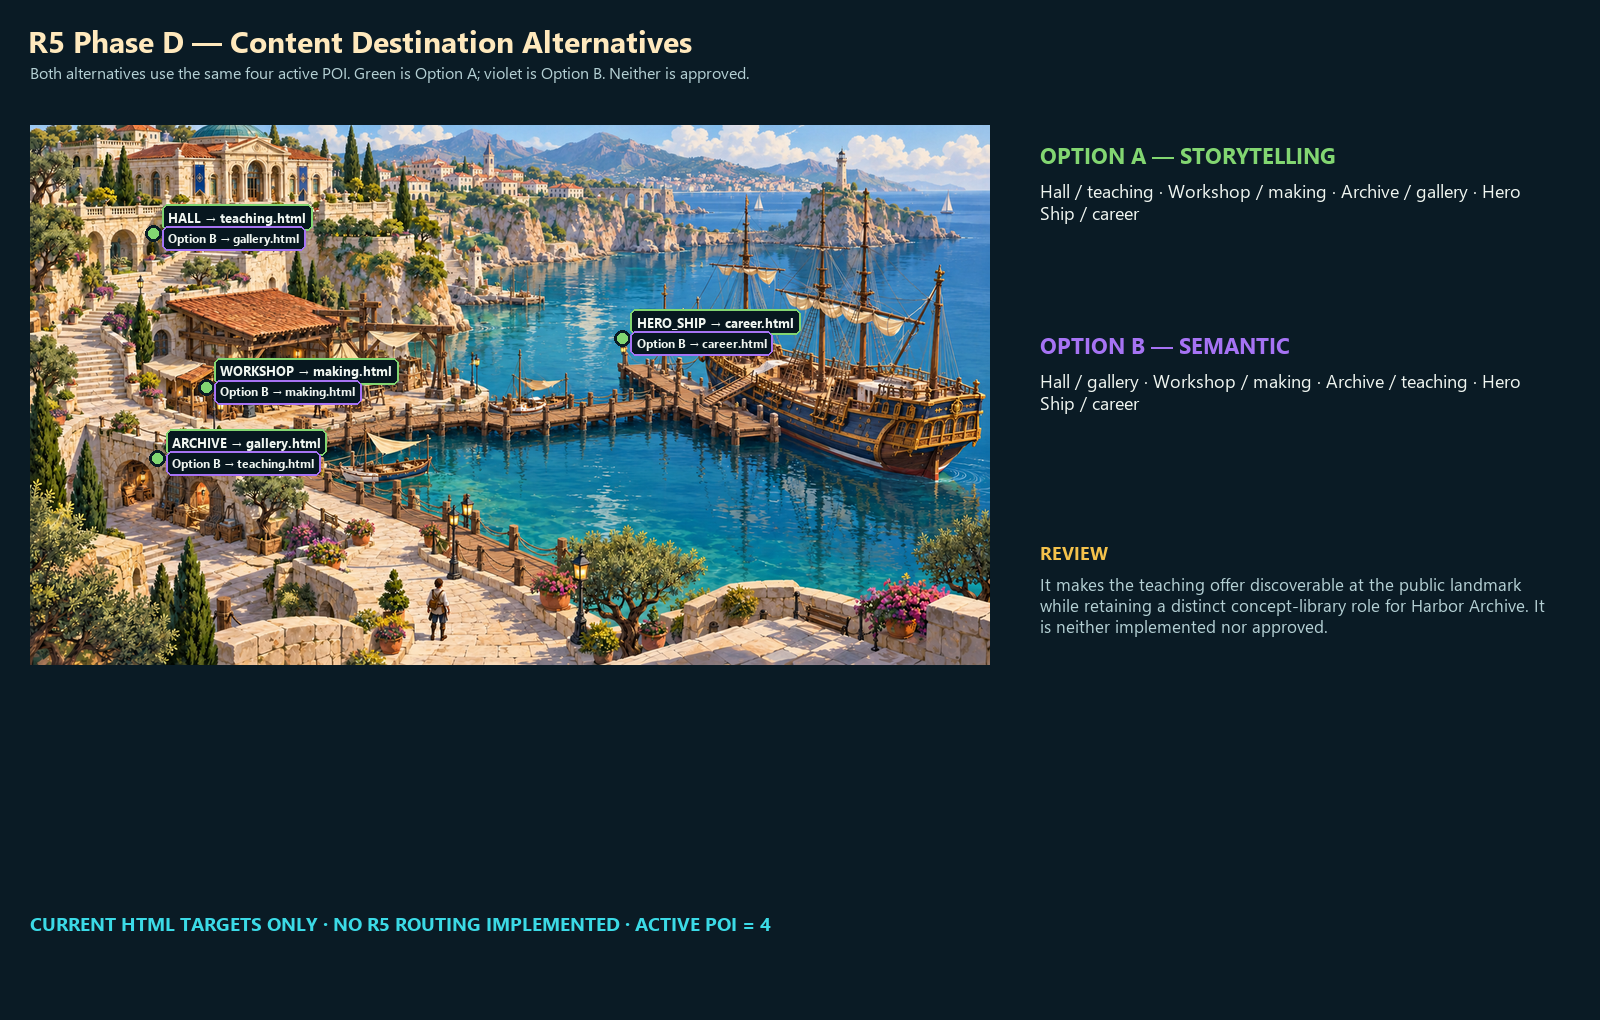
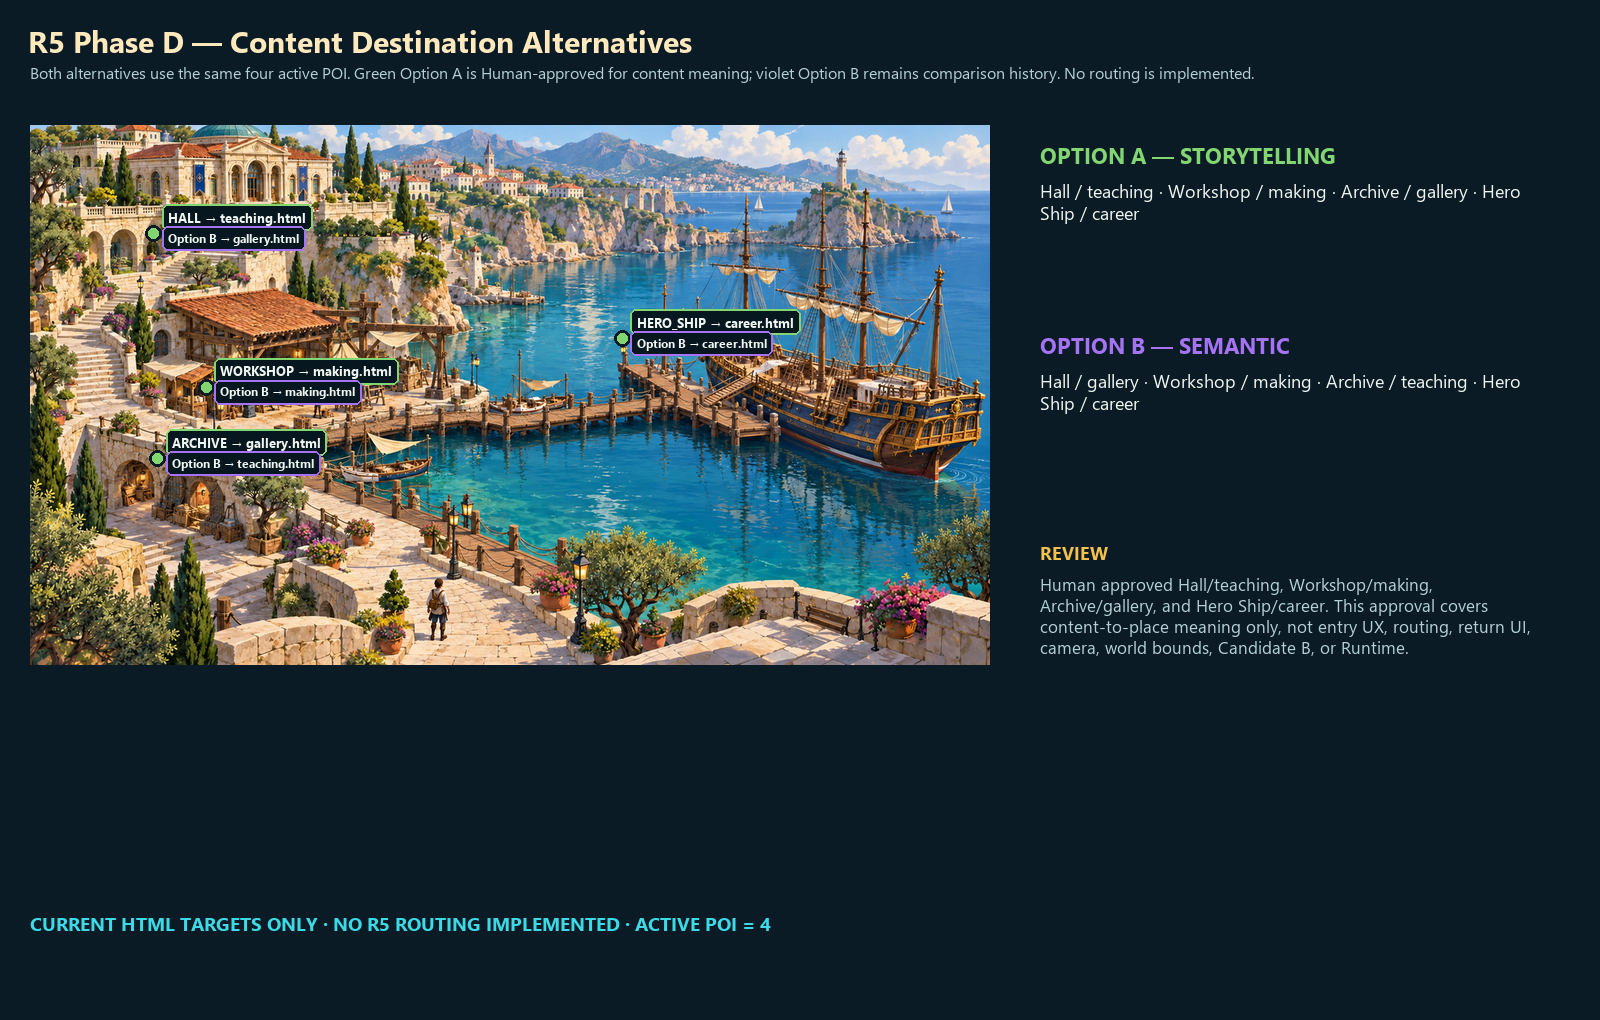
docs(portfolio-world): calibrate R5 camera viewport review

Changed region(s): [[0.6562, 0.5471, 0.9688, 0.6382], [0.25, 0.0608, 0.7812, 0.0912]]

diff --git a/tools/build_r5_phase_d1_camera_evidence.py b/tools/build_r5_phase_d1_camera_evidence.py
@@ -1,0 +1,65 @@
+"""Render R5 D.1 calibration boards using merged C.2 anchors and one camera transform."""
+from pathlib import Path
+import json
+from PIL import Image, ImageDraw, ImageFont
+
+ROOT=Path(__file__).resolve().parents[1]
+D=json.loads((ROOT/'data/portfolio-world/r5-camera-viewport-calibration-draft.json').read_text(encoding='utf8'))
+OUT=ROOT/D['evidence']['folder']; FONT='C:/Windows/Fonts/segoeui.ttf'; BOLD='C:/Windows/Fonts/segoeuib.ttf'
+BG=(10,27,37);INK=(239,245,240);MUTED=(180,208,212);GOLD=(244,194,75);CYAN=(59,218,230);GREEN=(130,214,113);VIOLET=(166,115,244);PINK=(245,105,165);ORANGE=(244,147,57)
+def f(n,b=False):return ImageFont.truetype(BOLD if b else FONT,n)
+def src():return Image.open(ROOT/D['referenceMaster']['path']).convert('RGB')
+def player():return Image.open(ROOT/'portfolio-world/public/assets/canonical-r4/runtime/player/idle-front.png').convert('RGBA')
+def board(title,sub,size):
+ im=Image.new('RGB',size,BG);d=ImageDraw.Draw(im);d.text((28,20),title,font=f(30,True),fill=(255,233,189));d.text((30,61),sub,font=f(16),fill=MUTED);return im,d
+def textwrap(d,x,y,text,width,size=16,color=MUTED):
+ words=text.split();line=''
+ for word in words:
+  trial=(line+' '+word).strip()
+  if d.textlength(trial,font=f(size))>width and line:d.text((x,y),line,font=f(size),fill=color);y+=size+5;line=word
+  else:line=trial
+ if line:d.text((x,y),line,font=f(size),fill=color)
+def anchors():return {a['id']:a for a in D['groundAnchors']}
+def clamp(n,low,high):return max(low,min(high,n))
+def camera_crop(image, feet, viewport, zoom, target_size):
+ """One transform: crop visible world then resize; player is scaled only by crop scale."""
+ vw,vh=viewport[0]/zoom,viewport[1]/zoom; left=clamp(feet[0]-vw/2,0,1280-vw);top=clamp(feet[1]-vh/2,0,720-vh)
+ # image crop accepts integral source pixels; computation is retained for the formula and diagram values.
+ left_i=round(left);top_i=round(top);vw_i=round(vw);vh_i=round(vh);tile=image.crop((left_i,top_i,left_i+vw_i,top_i+vh_i)).resize(target_size,Image.Resampling.LANCZOS).convert('RGBA')
+ sx=target_size[0]/vw_i;sy=target_size[1]/vh_i;return tile,(left_i,top_i),(sx,sy)
+def place(tile, feet, crop_pos, scale, world_size):
+ """Bottom-center foot anchor: no additional zoom beyond the crop scale."""
+ sx,sy=scale;w=max(1,round(world_size[0]*sx));h=max(1,round(world_size[1]*sy));spr=player().resize((w,h),Image.Resampling.NEAREST);x=round((feet[0]-crop_pos[0])*sx);y=round((feet[1]-crop_pos[1])*sy);ImageDraw.Draw(tile).ellipse((x-4,y-4,x+4,y+4),fill=GOLD);tile.alpha_composite(spr,(x-w//2,y-h));return (x,y,w,h)
+def corrected_comparison():
+ image=src();a=anchors()['N_WORKSHOP'];im,d=board('R5 D.1 — Corrected Camera Transform','Same Workshop ground anchor, same crop transform. The old player-only duplicate zoom is removed.',(1800,910));opts=D['playerScaleOptions']
+ for i,opt in enumerate(opts):
+  x=35+i*585;y=130;tile,cpos,scale=camera_crop(image,a['point'],[1024,576],opt['zoom'],(540,304));x0,y0,w,h=place(tile,a['point'],cpos,scale,opt['worldSize']);im.paste(tile.convert('RGB'),(x,y));d.rectangle((x,y,x+540,y+304),outline=GOLD,width=2);d.text((x,y+320),opt['id'].replace('_',' '),font=f(18,True),fill=INK);d.text((x,y+350),f"logical player {opt['logicalScreenSize'][0]}×{opt['logicalScreenSize'][1]} px",font=f(16),fill=CYAN);d.text((x,y+378),f"preview sprite {w}×{h}px · feet ({x0},{y0})",font=f(15),fill=MUTED)
+ d.text((35,800),'Correct rule: player preview size = player-world size × (thumbnail size / visible world area). Zoom appears once through visible world area.',font=f(18,True),fill=CYAN);return im
+def native_scale():
+ im,d=board('R5 D.1 — Player Native Logical Scale','Logical screen sizes are independent of CSS display size. Rectangles are true-size representations on a 1024×576 logical canvas.',(1600,920));x0,y0=55,135;scale=.9;d.rectangle((x0,y0,x0+1024*scale,y0+576*scale),outline=CYAN,width=3);d.text((x0,y0-32),'1024×576 LOGICAL VIEWPORT',font=f(18,True),fill=INK)
+ colors=[GREEN,GOLD,VIOLET]
+ for i,opt in enumerate(D['playerScaleOptions']):
+  x=x0+140+i*285;y=y0+280;w,h=opt['logicalScreenSize'];d.rectangle((x,y-h*scale,x+w*scale,y),fill=colors[i],outline=INK,width=2);d.line((x-25,y,x+max(55,w*scale)+25,y),fill=colors[i],width=2);d.text((x-40,y+18),opt['id'].replace('_',' '),font=f(16,True),fill=INK);d.text((x-40,y+44),f"{w}×{h} logical px",font=f(15),fill=MUTED)
+ d.text((1020,180),'INTERPRETATION',font=f(20,True),fill=(255,233,189));textwrap(d,1020,220,'28×56 at zoom 1.25 becomes 35×70 logical pixels. It is not a new character asset and it is not multiplied again by preview scale.',520,18);d.text((1020,410),'GROUND CONTACT',font=f(20,True),fill=(255,233,189));textwrap(d,1020,450,'Every sprite uses bottom-center feet at a merged C.2 ground anchor. The colored baseline is the contact point, not water or a hull.',520,18);return im
+def five_locations():
+ image=src(); places=[('Hall / Main Stairs','N_HALL_STAIR_BASE'),('Workshop','N_WORKSHOP'),('Harbor Archive','N_ARCHIVE'),('Central Promenade','N_PROMENADE'),('Hero Boarding Threshold','N_HERO')];im,d=board('R5 D.1 — Five-Location Gameplay Review','All rows use the exact same C.2 merged point for each location; only player scale / camera zoom changes.',(2450,1250))
+ for r,opt in enumerate(D['playerScaleOptions']):
+  y=115+r*360;d.text((24,y),opt['id'].replace('_',' '),font=f(19,True),fill=(255,233,189));d.text((24,y+28),f"player {opt['worldSize'][0]}×{opt['worldSize'][1]}, zoom {opt['zoom']}; logical {opt['logicalScreenSize'][0]}×{opt['logicalScreenSize'][1]}",font=f(14),fill=MUTED)
+  for c,(name,nid) in enumerate(places):
+   anchor=anchors()[nid];tile,cpos,scale=camera_crop(image,anchor['point'],[1024,576],opt['zoom'],(390,219));place(tile,anchor['point'],cpos,scale,opt['worldSize']);x=315+c*420;im.paste(tile.convert('RGB'),(x,y));d.rectangle((x,y,x+390,y+219),outline=GOLD,width=2);d.text((x,y+228),name,font=f(14,True),fill=INK);d.text((x,y+249),f"{nid}: {anchor['point'][0]},{anchor['point'][1]} · {anchor['surface']}",font=f(12),fill=MUTED)
+ d.text((28,1210),'Ground checks: every anchor is on its named merged C.2 surface and outside solid building/cliff/hull collision; sea overlap is allowed only on named Pier/Dock/Gangway surfaces. Hero remains a threshold only.',font=f(17,True),fill=CYAN);return im
+def boundaries():
+ image=src();im,d=board('R5 D.1 — Camera Boundary and Travel Review','Camera rectangles are clamped to 1280×720 review bounds. They illustrate view coverage, not a final world-size decision.',(2050,1050));configs=D['viewportConfigurations']
+ for i,cfg in enumerate(configs):
+  x=35+(i%2)*1000;y=135+(i//2)*430;tile=image.resize((820,461),Image.Resampling.LANCZOS);im.paste(tile,(x,y));scale=820/1280;vw,vh=cfg['visibleWorld'];rect=(x+(820-vw*scale)/2,y+(461-vh*scale)/2,x+(820+vw*scale)/2,y+(461+vh*scale)/2);d.rectangle(rect,outline=GOLD,width=4);d.rectangle((x,y,x+820,y+461),outline=CYAN,width=3);d.text((x,y+475),cfg['id'].replace('_',' '),font=f(18,True),fill=INK);d.text((x,y+504),f"visible {vw:.1f}×{vh:.1f} · travel {cfg['cameraTravel'][0]:.1f}×{cfg['cameraTravel'][1]:.1f}",font=f(15),fill=MUTED)
+ d.text((35,1010),'CYAN: 1280×720 candidate review bounds · GOLD: visible world area when camera targets a central location · clamp prevents blank edge exposure.',font=f(16,True),fill=CYAN);return im
+def decision_board():
+ image=src();im,d=board('R5 D.1 — Approved Mapping / Pending Camera Decision','One Human decision is recorded; camera and world selections remain review choices.',(1600,910));im.paste(image.resize((700,394),Image.Resampling.LANCZOS),(30,130));d.rectangle((30,130,730,524),outline=GOLD,width=3)
+ cards=[('CONTENT MAPPING','A_STORYTELLING · HUMAN APPROVED',GREEN),('IMPLEMENTATION','NOT IMPLEMENTED',PINK),('RIGHT RESERVE','APPROVED · VISUAL ONLY',GREEN),('CAMERA / VIEWPORT','PENDING HUMAN',GOLD),('WORLD BOUNDS','PENDING HUMAN',GOLD),('R5 RUNTIME','BLOCKED',PINK)]
+ for i,(a,b,c) in enumerate(cards):
+  x=790;y=130+i*88;d.rounded_rectangle((x,y,x+760,y+66),12,fill=(17,47,59),outline=c,width=3);d.text((x+16,y+9),a,font=f(14,True),fill=MUTED);d.text((x+16,y+33),b,font=f(18,True),fill=INK)
+ d.text((30,770),'Recommendation for Human review: compare 1024×576 at 1.25 with the separate overview pattern before changing player art or final world bounds.',font=f(17,True),fill=(255,233,189));d.text((30,840),D['humanGate']['gate'],font=f(22,True),fill=CYAN);return im
+def main():
+ OUT.mkdir(parents=True,exist_ok=True)
+ for name,fn in [('04-corrected-camera-comparison.png',corrected_comparison),('05-player-native-scale-review.png',native_scale),('06-five-location-gameplay-review.png',five_locations),('07-camera-boundary-and-travel.png',boundaries),('11-human-decision-board.png',decision_board)]:fn().save(OUT/name)
+if __name__=='__main__':main()

diff --git a/tools/build_r5_phase_d_architecture_evidence.py b/tools/build_r5_phase_d_architecture_evidence.py
@@ -28,7 +28,7 @@ def wrap(d, xy, text, width, color=MUTED, size=16, gap=4):
 def getnodes():
     by={x['id']:x for x in C1['navigationNodes']};by.update({x['id']:x for x in C2['geometryOverrides']['navigationNodes']});return by
 def content_map():
-    src=master(); im,d=board('R5 Phase D — Content Destination Alternatives','Both alternatives use the same four active POI. Green is Option A; violet is Option B. Neither is approved.',(1600,1020)); im.paste(src.resize((960,540),Image.Resampling.LANCZOS),(30,125));
+    src=master(); im,d=board('R5 Phase D — Content Destination Alternatives','Both alternatives use the same four active POI. Green Option A is Human-approved for content meaning; violet Option B remains comparison history. No routing is implemented.',(1600,1020)); im.paste(src.resize((960,540),Image.Resampling.LANCZOS),(30,125));
     points={'hall':(165,145),'workshop':(235,350),'archive':(170,445),'hero_ship':(790,285)}
     a=DATA['mappingOptions'][0]['mapping']; b=DATA['mappingOptions'][1]['mapping']
     for poi,(x,y) in points.items():
@@ -52,7 +52,7 @@ def gameplay():
     for r,cam in enumerate(DATA['cameraOptions']):
         y=120+r*330;d.text((25,y),cam['id'].replace('_',' '),font=ft(20,True),fill=(255,233,189));d.text((25,y+30),f"player {cam['playerVisual'][0]}×{cam['playerVisual'][1]} · zoom {cam['zoom']} · visible {cam['visibleWorld'][0]:.1f}×{cam['visibleWorld'][1]:.1f} · on-screen {cam['screenPlayerHeight']}px",font=ft(14),fill=MUTED)
         for c,(name,nid) in enumerate(views):
-            p=nodes[nid]['point']; vw,vh=map(round,cam['visibleWorld']);left=max(0,min(src.width-vw,round(p[0]-vw/2)));top=max(0,min(src.height-vh,round(p[1]-vh/2)));tile=src.crop((left,top,left+vw,top+vh)).resize((400,225),Image.Resampling.LANCZOS).convert('RGBA');sx=400/vw;sy=225/vh;sw=max(1,round(cam['playerVisual'][0]*cam['zoom']*sx));sh=max(1,round(cam['playerVisual'][1]*cam['zoom']*sy));sprite=player.resize((sw,sh),Image.Resampling.NEAREST);px=round((p[0]-left)*sx);py=round((p[1]-top)*sy);ImageDraw.Draw(tile).ellipse((px-4,py-4,px+4,py+4),fill=GOLD);tile.alpha_composite(sprite,(px-sw//2,py-sh));x=390+c*425;im.paste(tile.convert('RGB'),(x,y));d.rectangle((x,y,x+400,y+225),outline=GOLD,width=2);d.text((x,y+234),name,font=ft(15,True),fill=INK)
+            p=nodes[nid]['point']; vw,vh=map(round,cam['visibleWorld']);left=max(0,min(src.width-vw,round(p[0]-vw/2)));top=max(0,min(src.height-vh,round(p[1]-vh/2)));tile=src.crop((left,top,left+vw,top+vh)).resize((400,225),Image.Resampling.LANCZOS).convert('RGBA');sx=400/vw;sy=225/vh;sw=max(1,round(cam['playerVisual'][0]*sx));sh=max(1,round(cam['playerVisual'][1]*sy));sprite=player.resize((sw,sh),Image.Resampling.NEAREST);px=round((p[0]-left)*sx);py=round((p[1]-top)*sy);ImageDraw.Draw(tile).ellipse((px-4,py-4,px+4,py+4),fill=GOLD);tile.alpha_composite(sprite,(px-sw//2,py-sh));x=390+c*425;im.paste(tile.convert('RGB'),(x,y));d.rectangle((x,y,x+400,y+225),outline=GOLD,width=2);d.text((x,y+234),name,font=ft(15,True),fill=INK)
     d.text((30,1120),'Read: 28×56 at 1.25 is proposed for first gameplay test. Overview must remain a separate affordance; it is not the normal play view.',font=ft(17,True),fill=CYAN);return im
 def expansion():
     src=master(); im,d=board('R5 Phase D — Future Expansion Models','Current right-side reserve stays water/horizon and non-walkable. These diagrams compare future production choices.',(1700,980)); im.paste(src.resize((760,428),Image.Resampling.LANCZOS),(35,135));d.rectangle((35+570,135,795,563),outline=VIOLET,width=4);d.text((58,582),'ACTIVE HARBOR CORE',font=ft(16,True),fill=GREEN);d.text((610,582),'VISUAL RESERVE ONLY',font=ft(16,True),fill=VIOLET)
@@ -63,13 +63,13 @@ def expansion():
     for i,seam in enumerate(DATA['expansionSeams']):d.text((60,792+i*44),f"{seam['id']}: {seam['current']}",font=ft(16),fill=INK)
     return im
 def decisions():
-    im,d=board('R5 Phase D — Human Decision Board','A planning package only. No candidate, mapping, UX, world size, camera value, or runtime has been approved.',(1600,940)); src=master().resize((650,366),Image.Resampling.LANCZOS);im.paste(src,(30,130));d.rectangle((30,130,680,496),outline=GOLD,width=3)
-    decisions=[('A · CONTENT MAPPING','Option A storytelling / Option B semantic'),('B · CONTENT ENTRY UX','HTML page / overlay panel / content scene'),('C · WORLD AND CAMERA','single-screen / larger exploration / connected areas'),('D · EXPANSION MODEL','World Extension / Scene Transition')]
+    im,d=board('R5 Phase D — Human Decision Board','A Storytelling content mapping is approved; entry UX, world/camera, Candidate B, and Runtime remain pending or blocked.',(1600,940)); src=master().resize((650,366),Image.Resampling.LANCZOS);im.paste(src,(30,130));d.rectangle((30,130,680,496),outline=GOLD,width=3)
+    decisions=[('A · CONTENT MAPPING','A Storytelling · HUMAN APPROVED'),('B · CONTENT ENTRY UX','HTML page / overlay panel / content scene'),('C · WORLD AND CAMERA','single-screen / larger exploration / connected areas'),('D · EXPANSION MODEL','World Extension / Scene Transition')]
     for i,(a,b) in enumerate(decisions):
         x=750;y=130+i*125;d.rounded_rectangle((x,y,x+790,y+94),14,fill=(17,47,59),outline=CYAN,width=3);d.text((x+20,y+13),a,font=ft(19,True),fill=(255,233,189));d.text((x+20,y+47),b,font=ft(17),fill=INK)
     checks=['FOUR ACTIVE POI — PRESERVED','C.2 GEOMETRY — PRESERVED','RIGHT RESERVE — VISUAL ONLY','CANDIDATE B — PENDING HUMAN','R4/R5 RUNTIME — NOT MODIFIED / BLOCKED']
     for i,text in enumerate(checks):d.text((40,570+i*42),text,font=ft(18,True),fill=GREEN if i<3 else GOLD)
-    d.text((40,830),DATA['gate'],font=ft(22,True),fill=CYAN);return im
+    d.text((40,830),'READY_FOR_R5_D1_CAMERA_WORLD_HUMAN_REVIEW',font=ft(22,True),fill=CYAN);return im
 def main():
     OUT.mkdir(parents=True,exist_ok=True)
     for name,func in [('10-content-destination-map.png',content_map),('11-world-size-camera-comparison.png',world_size),('12-gameplay-view-comparison.png',gameplay),('13-future-expansion-models.png',expansion),('14-human-decision-board.png',decisions)]: func().save(OUT/name)

diff --git a/reports/portfolio-world-rebuild/r5-world-layout-recovery/phase-d/09-human-gate-review.md b/reports/portfolio-world-rebuild/r5-world-layout-recovery/phase-d/09-human-gate-review.md
@@ -2,10 +2,10 @@
 
 ## Decisions requested
 
-1. **A — Content mapping:** Option A storytelling or Option B semantic.
-2. **B — Content entry UX:** page navigation, overlay/panel, or content scene.
-3. **C — World/camera:** single-screen, larger exploration, or connected areas; and initial player/camera test.
-4. **D — Expansion architecture:** World Extension or Scene Transition.
+1. **A — Content mapping:** **Human approved `A_STORYTELLING` in R5 Phase D.1** — Hall/teaching, Workshop/making, Archive/gallery, Hero Ship/career. This records the relationship only; implementation remains `NOT_IMPLEMENTED`. Option B remains comparison history.
+2. **B — Content entry UX:** page navigation, overlay/panel, or content scene — pending Human.
+3. **C — World/camera:** single-screen, larger exploration, or connected areas; and initial player/camera test — pending Human.
+4. **D — Expansion architecture:** World Extension or Scene Transition — pending Human.
 
 ## Preserved / not approved
 
@@ -16,7 +16,7 @@
 - No mapping, world extent, camera setting, or final blueprint is approved.
 
 ```ini
-CONTENT_MAPPING = PENDING_HUMAN
+CONTENT_MAPPING = HUMAN_APPROVED (A_STORYTELLING; NOT_IMPLEMENTED)
 CONTENT_ENTRY_UX = PENDING_HUMAN
 WORLD_CAMERA = PENDING_HUMAN
 EXPANSION_MODEL = PENDING_HUMAN

diff --git a/reports/portfolio-world-rebuild/r5-world-layout-recovery/phase-d1/03-viewport-coordinate-contract.md b/reports/portfolio-world-rebuild/r5-world-layout-recovery/phase-d1/03-viewport-coordinate-contract.md
@@ -1,0 +1,16 @@
+# R5 Phase D.1 — Viewport and Coordinate Contract
+
+| Concept | Contract |
+|---|---|
+| `SOURCE_IMAGE_SIZE` | Candidate B visual source: 1280×720. It is not an approved world extent. |
+| `WORLD_BOUNDS` | Review bound: 1280×720; larger world alternatives require authored art and geometry. |
+| `LOGICAL_VIEWPORT` | Under review: 1024×576 and 1280×720. |
+| `CSS_DISPLAY_SIZE` | Presentation resolution only; it does not change logical world coordinates. |
+| `CAMERA_ZOOM` | Multiplier from world to logical screen. |
+| `VISIBLE_WORLD_AREA` | `logicalViewport / zoom`. |
+
+`cameraPosition = clamp(target - visibleWorldArea/2, 0, worldBounds - visibleWorldArea)`.
+
+For each object—including scenery, building, vessel, ground anchor, interaction anchor, and player—`screen = (world - camera) × zoom`. Preview output adds a final thumbnail scale only. The player feet, not its image center, remain at its ground anchor. Water overlap is allowed only where C.2 explicitly names a Pier/Dock/Gangway bridge surface; building, cliff, and hull collision is never allowed.
+
+The basic WorldScene 1024×576, Canonical R4’s independent 1920×1080 world declaration, and the 1280×720 Candidate B source are therefore documented as distinct concepts.

diff --git a/reports/portfolio-world-rebuild/r5-world-layout-recovery/phase-d1/02-camera-calculation-bug-audit.md b/reports/portfolio-world-rebuild/r5-world-layout-recovery/phase-d1/02-camera-calculation-bug-audit.md
@@ -1,0 +1,24 @@
+# R5 Phase D.1 — Camera Calculation Bug Audit
+
+## Root cause
+
+The Phase D gameplay preview cropped `visibleWorld = viewport / zoom` and resized that crop to a thumbnail. The crop-to-thumbnail scale already contains camera zoom. The old player draw calculation used `playerVisual × zoom × tileScale`, so zoom was applied again to the player only.
+
+## Corrected calculation
+
+```text
+logicalScreen = (worldPosition - clampedCameraPosition) × zoom
+previewScreen = logicalScreen × previewScale
+
+playerPreviewSize = playerWorldSize × zoom × previewScale
+                  = playerWorldSize × (previewSize / visibleWorldArea)
+```
+
+The corrected preview renderer uses `playerWorldSize × (previewSize / visibleWorldArea)` exactly once. The player bottom-center is aligned to the ground anchor; the top-left is derived by subtracting half width and full height. Background and player share the same crop/scale transform.
+
+## Verification
+
+- 28×56 at zoom 1.0 → 28×56 logical pixels.
+- 28×56 at zoom 1.25 → 35×70 logical pixels.
+- 32×64 at zoom 1.0 → 32×64 logical pixels.
+- Camera clamp and thumbnail scale are tested separately; no duplicate zoom is present.

diff --git a/reports/portfolio-world-rebuild/r5-world-layout-recovery/phase-d1/08-world-size-feasibility.md b/reports/portfolio-world-rebuild/r5-world-layout-recovery/phase-d1/08-world-size-feasibility.md
@@ -1,0 +1,11 @@
+# R5 Phase D.1 — World Size Feasibility
+
+| Option | Bounds | 1024×576 z1 travel | Feasibility |
+|---|---:|---:|---|
+| Compact Harbor | 1280×720 | 256×144 | Preserves composition; movement is limited. |
+| Exploration Harbor | 1600×900 | 576×324 | More following-camera travel, but every exterior area needs new terrain, water, background, walkability, collision, and art-direction validation. |
+| Connected Scenes | 1280×720 harbor | 256×144 | Keeps the harbor intact; Hero interior or offshore content enters through a separately approved scene seam. |
+
+At 1280×720 review bounds: 1024×576 z1.25 yields 819.2×460.8 visible world and 460.8×259.2 travel; 1280×720 z1 has no travel; 1280×720 z1.25 yields 1024×576 visible world and 256×144 travel.
+
+No option is locked. The 1600×900 drawing is a feasibility boundary only—not a finished land claim or an enlarged Beauty Master.

diff --git a/reports/portfolio-world-rebuild/r5-world-layout-recovery/phase-d1/09-content-return-ux-contract.md b/reports/portfolio-world-rebuild/r5-world-layout-recovery/phase-d1/09-content-return-ux-contract.md
@@ -1,0 +1,12 @@
+# R5 Phase D.1 — Content Return UX Contract
+
+Content mapping is approved; content entry remains pending. If an approved future implementation opens an existing HTML page, the UX contract should be:
+
+1. Player reaches the named exterior interaction anchor.
+2. A deliberate E/Enter/click/tap action opens the page; proximity never redirects.
+3. Browser Back returns to the prior World URL as the current baseline.
+4. A future explicit “Return to World” control should restore the last POI/approach identifier without an account or personal-data store.
+5. Mobile must offer a visible touch activation and use platform Back safely.
+6. Refresh or direct page entry should begin at a documented default World location rather than inventing a saved visit position.
+
+No return control, state persistence, routing, or content-entry mechanism is implemented in D.1.

diff --git a/reports/portfolio-world-rebuild/r5-world-layout-recovery/phase-d1/01-content-mapping-human-closeout.md b/reports/portfolio-world-rebuild/r5-world-layout-recovery/phase-d1/01-content-mapping-human-closeout.md
@@ -1,0 +1,16 @@
+# R5 Phase D.1 — Content Mapping Human Closeout
+
+## Official approved mapping
+
+Human approved `A_STORYTELLING`:
+
+| R5 space | Approved content | Existing page |
+|---|---|---|
+| Exhibition Hall | AX teaching and education program | `teaching.html` |
+| Workshop | AI use and making results | `making.html` |
+| Harbor Archive | AI·AX concept gallery | `gallery.html` |
+| Hero Ship | Career and professional journey | `career.html` |
+
+`CONTENT_MAPPING = HUMAN_APPROVED`. This approves the content-to-place relationship only. It is `NOT_IMPLEMENTED`: no routing, overlay, page-return UI, Runtime, world bounds, camera, Candidate B final design, or final blueprint is approved here.
+
+Option B is retained as Phase D comparison history, not deleted or selected.

diff --git a/reports/portfolio-world-rebuild/r5-world-layout-recovery/phase-d1/10-final-human-gate-review.md b/reports/portfolio-world-rebuild/r5-world-layout-recovery/phase-d1/10-final-human-gate-review.md
@@ -1,0 +1,22 @@
+# R5 Phase D.1 — Final Human Gate Review
+
+## Preserved facts
+
+- Four POI only; C.2 walkable/collision data and right-side visual reserve are unchanged.
+- Candidate B remains provisional; no new Beauty Master, building, ship, path, or content page was changed.
+- Canonical R4 remains hash-preserved; R5 Runtime remains absent.
+
+## Status
+
+```ini
+CONTENT_MAPPING = HUMAN_APPROVED (A_STORYTELLING; NOT_IMPLEMENTED)
+RIGHT_SIDE_RESERVE_STRATEGY = APPROVED
+CONTENT_ENTRY_UX = PENDING_HUMAN
+CAMERA_VIEWPORT = PENDING_HUMAN
+WORLD_BOUNDS = PENDING_HUMAN
+CANDIDATE_B_FINAL_DESIGN = PENDING_HUMAN
+FINAL_SPATIAL_BLUEPRINT = NOT_APPROVED
+R5_RUNTIME = BLOCKED
+
+GATE = READY_FOR_R5_D1_CAMERA_WORLD_HUMAN_REVIEW
+```
